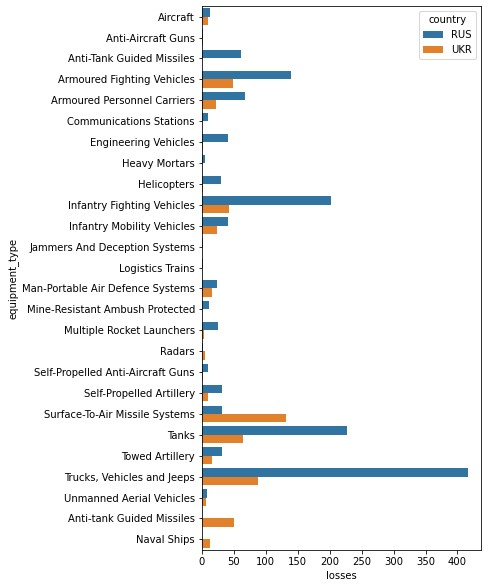
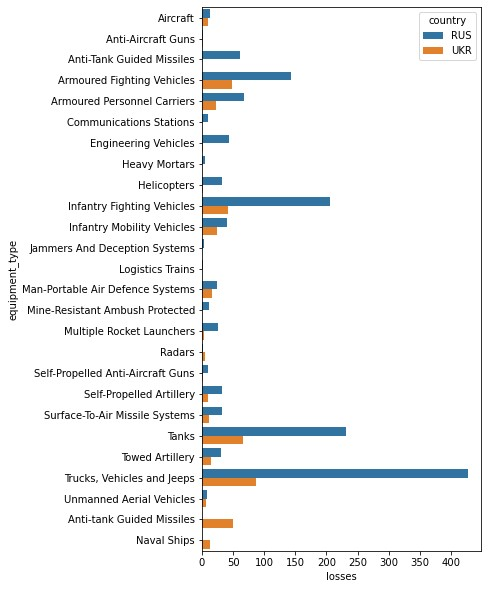
fixed wrong categorization of Ukrainian surface-to-air systems

Changed region(s): [[0.0, 0.3066, 0.9776, 1.0], [0.1222, 0.0613, 0.4888, 0.2147], [0.3666, 0.0, 0.9776, 0.1227]]

diff --git a/script.py b/script.py
@@ -110,7 +110,17 @@ for section in all_russian_all_ukraine:
                 li_list = ul.find_all('li')
                 
                 for li in li_list:
-                                
+                    
+                    strEmpty = str(element)
+                    
+                    if current_type == 'Surface-To-Air Missile Systems' and country == 'UKR':
+                        
+                        strEmpty_find = re.search(r"<h3>[\r\n]</h3>", strEmpty)
+                        
+                        if not strEmpty_find == None:
+                            break
+                        
+
                     li_a_list = li.find_all('a')
 
                     for equipment_subtype_i in equipment_subtypes_auto:
@@ -153,12 +163,14 @@ for section in all_russian_all_ukraine:
                                 if status_i == current_a_text:
                                     for x in range(0, report_numbers_count):
                                         list_tmp.append([country, current_type, current_subtype, current_a_text, single_report['href']])
-
-                            except:
+                            except Exception as e:
+                                #print(e)
                                 pass
                 
-            except:
+            except Exception as e: 
+                #print(e)
                 pass
+
                         
 df = pd.DataFrame(list_tmp, columns=['country', 'equipment_type', 'equipment_subtype', 'satus', 'source'])
 
